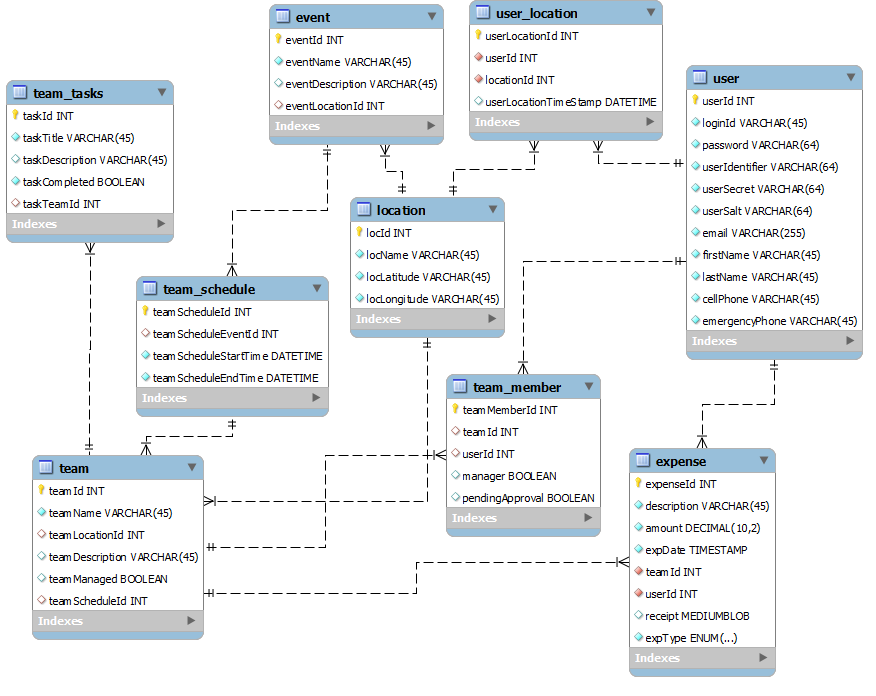
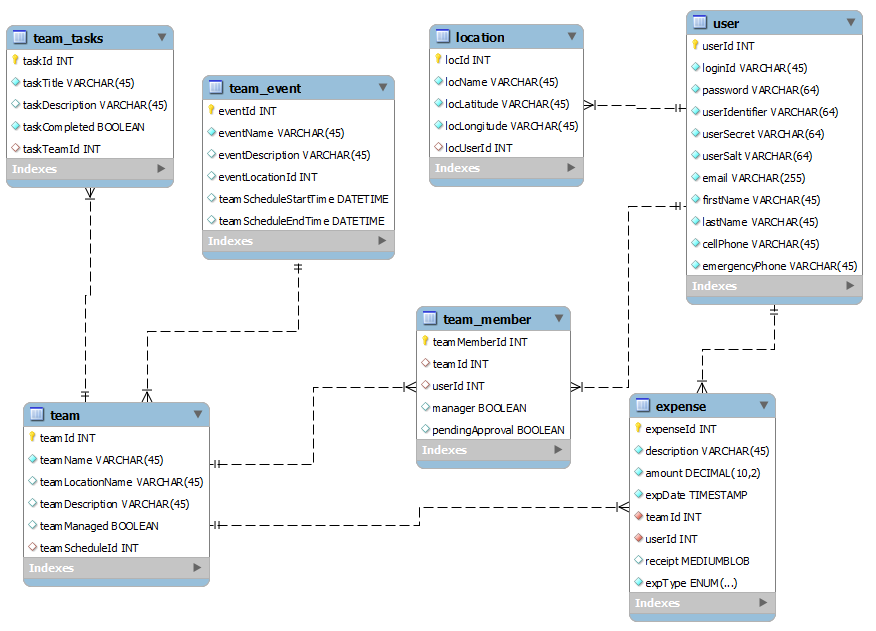
API and database changes
Changes made per meeting and before meeting

diff --git a/API/api/pub/models/TeamSchedule.php b/API/api/pub/models/TeamSchedule.php
@@ -15,8 +15,51 @@
         
         public function initialize() {
             $this->teamScheduleId = -999;
-            $this->teamScheduleEventId = -999;           
-        }       
+            $this->teamScheduleEventId = -999;
+            $this->teamScheduleStartTime = '2013-12-31';
+            $this->teamScheduleEndTime = '2013-12-31';
+        }
+        
+        public function InsertTeamSchedule() {
+            global $db;
+            
+            $query = sprintf("insert into team _schedule (teamScheduleEventId, teamScheduleStartTime, teamScheduleEndTIme)",
+                    myEsc($this->teamScheduleEventId),
+                    myEsc($this->teamScheduleStartTime),
+                    myEsc($this->teamScheduleEndTime));
+            logIt("insert team schedule query");
+            logIt(var_export($query,true));
+            
+            mysql_query($query, $db);
+            
+            $id = mysql_insert_id();
+            
+            if($id >= 0) {
+                $this->teamId = $id;
+            }
+            
+            return $id           
+        }
+        
+        public function SelectTeamSchedule($teamScheduleId) {
+            global $db;
+            
+            $query = "select * from team_schedule where teamScheduleId = " .myEsc($teamScheduleId);
+            $sql = mysql_query($query, $db);
+            
+            $teamSchedule = array();
+            
+            if(mysql_num_rows($sql) > 0) {
+                $result = array();
+                
+                while($row = mysql_fetch_array($sql)) {
+                    $result[] = $rlt;
+                }
+                
+                
+            }
+            
+        }
     }
     
 ?>

diff --git a/API/api/pub/models/Team.php b/API/api/pub/models/Team.php
@@ -41,9 +41,9 @@
                 $this->teamManaged = 0;
             }
 
-            $query = sprintf("insert into team (teamName,teamDescription,teamManaged) values ('%s','%s','%d')",
+            $query = sprintf("insert into team (teamName,teamDescription,teamManaged) values ('%s','%s',%d)",
             // orig $query = sprintf("insert into team (teamName,teamLocationId,teamDescription,teamManaged,teamScheduleId) values ('%s',%d,'%s','%s',%d)",
-                myEsc(strtolower($this->teamName)),
+                myEsc($this->teamName),
                 myEsc($this->teamDescription),
                 myEsc($this->teamManaged));
             logIt("insert team query");
@@ -62,6 +62,7 @@
         
         public function SelectAllTeams() {
             global $db;
+            
             $query = "select * from team";
             $sql = mysql_query($query, $db);
             $teamList = array();
@@ -80,7 +81,7 @@
                         $tLocation = $row;
                         $teamList[] = $tLocation;
                     }
-                }                               
+                }
                 
                 return $teamList;
             }
@@ -105,7 +106,7 @@
             
             if($tm->VerifyTeamMemberExist($teamId, $userId) && $teamId && $tu->TeamIdExists($teamId)) {
                 $query = "select * from team where teamId =" . myEsc($teamId);
-            logIt(var_export($query, true));
+                logIt(var_export($query, true));
                 $sql = mysql_query($query, $db);
                 if(mysql_num_rows($sql) > 0) {
                     $result = array();

diff --git a/API/api/pub/api.php b/API/api/pub/api.php
@@ -93,7 +93,7 @@
             $selectTeam = $selectTeam->GetAllTeams();    
             //fixed var name
             $respArray = get_object_vars($selectTeam);    
-            $jsonMsg = array('status' => "success", 'response' => $selectTeam);
+            $jsonMsg = array('status' => 'success', 'response' => $selectTeam);
             $this->response($this->json($jsonMsg), 200);
         }
         private function Team_GetTeam() 
@@ -109,6 +109,8 @@
             }
 
             $info = $this->_request;
+            
+            $authUser = $this->AuthRequired($info);
 
             if(isset($info['loginId']))
             {
@@ -140,11 +142,11 @@
 
             if($failure == true) 
             {
-                $respArray = array('status' => "failure", 'response' => "team not found");
+                $respArray = array('status' => 'failure', 'response' => "team not found");
             } else 
             {
                 $newTeam = get_object_vars($selectTeam);
-                $respArray = array('status' => "success", 'response' => $newTeam);
+                $respArray = array('status' => 'success', 'response' => $newTeam);
             }
 
             $this->response($this->json($respArray), 200);

diff --git a/API/api/pub/models/Location.php b/API/api/pub/models/Location.php
@@ -22,8 +22,7 @@
         }
         
         public function InsertLocation() {
-            $query = sprintf("insert into location (locId, locName, locLatitude, locLongitude) values ('%d','%s', '%s')",
-                myEsc($this->locId),
+            $query = sprintf("insert into location (locName, locLatitude, locLongitude) values ('%d','%s', '%s')",                
                 myEsc($this->locName),
                 myEsc($this->locLatitude),
                 myEsc($this->locLongitude));

diff --git a/API/api/pub/models/Event.php b/API/api/pub/models/Event.php
@@ -22,7 +22,7 @@
         
         public function InsertEvent() {
             global $db;
-            $query = sprintf("insert into event(eventName, eventDescription, eventLocationId) values ('%s','%s','d')",
+            $query = sprintf("insert into event(eventName, eventDescription, eventLocationId) values ('%s','%s',%d)",
                     myEsc(strtolower($this->eventName)),
                     myEsc($this->eventDescription),
                     myEsc($this->eventLocationId));
